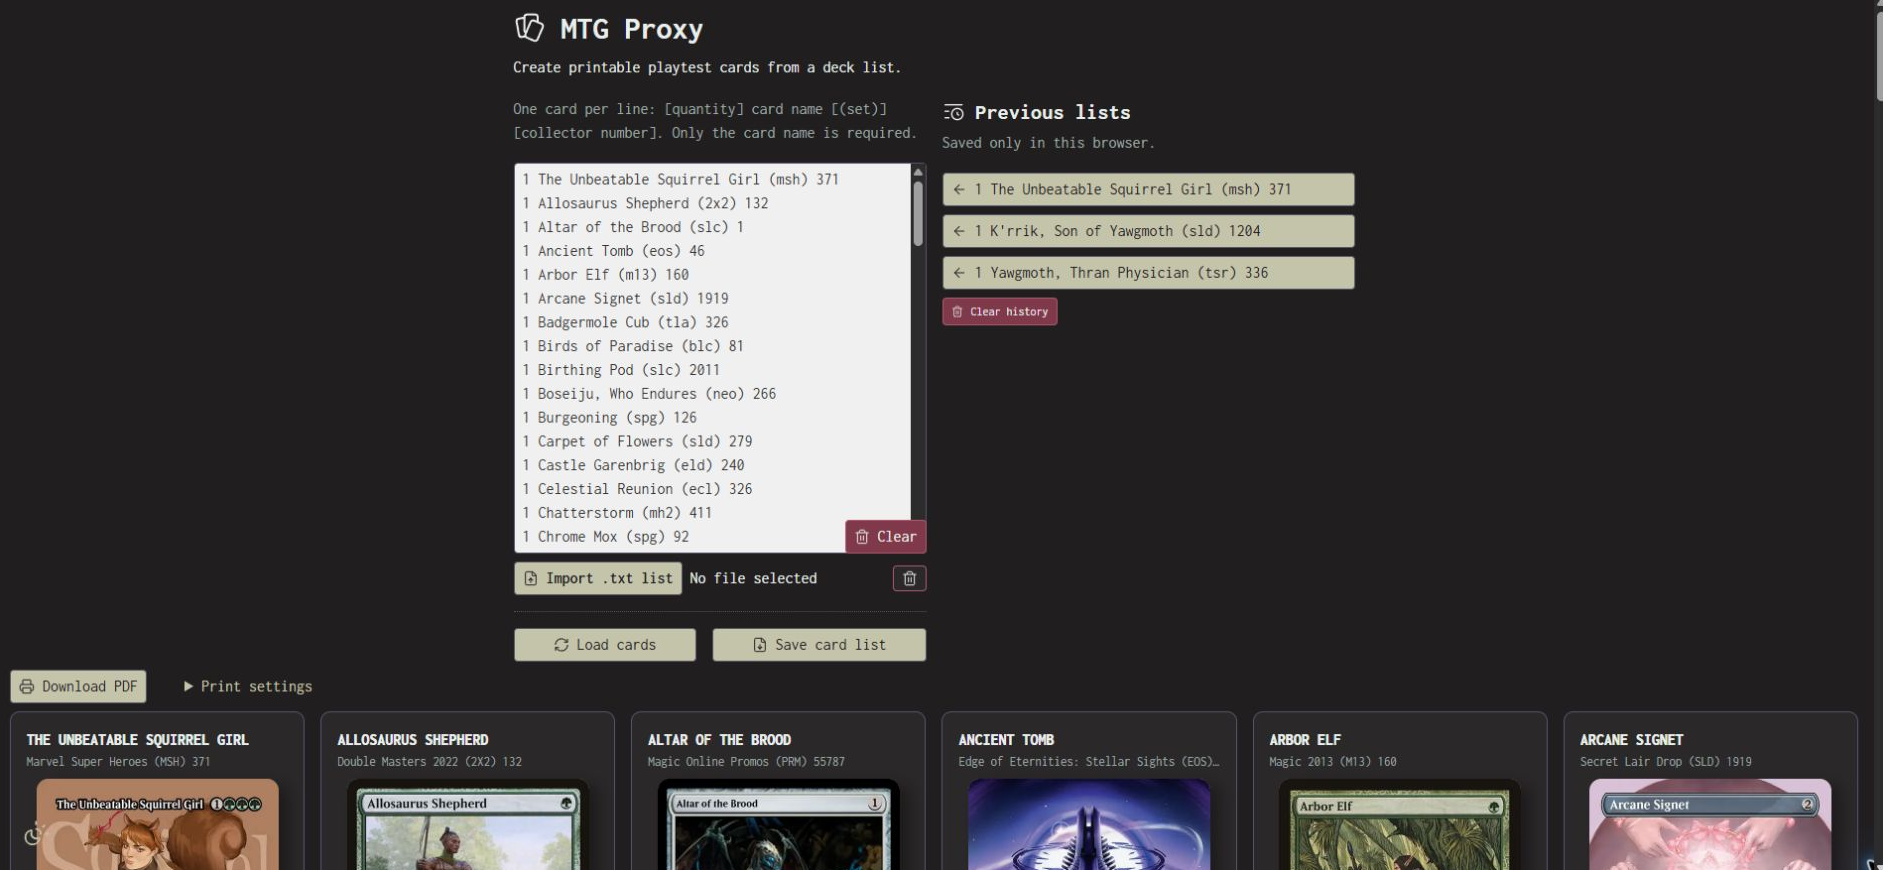
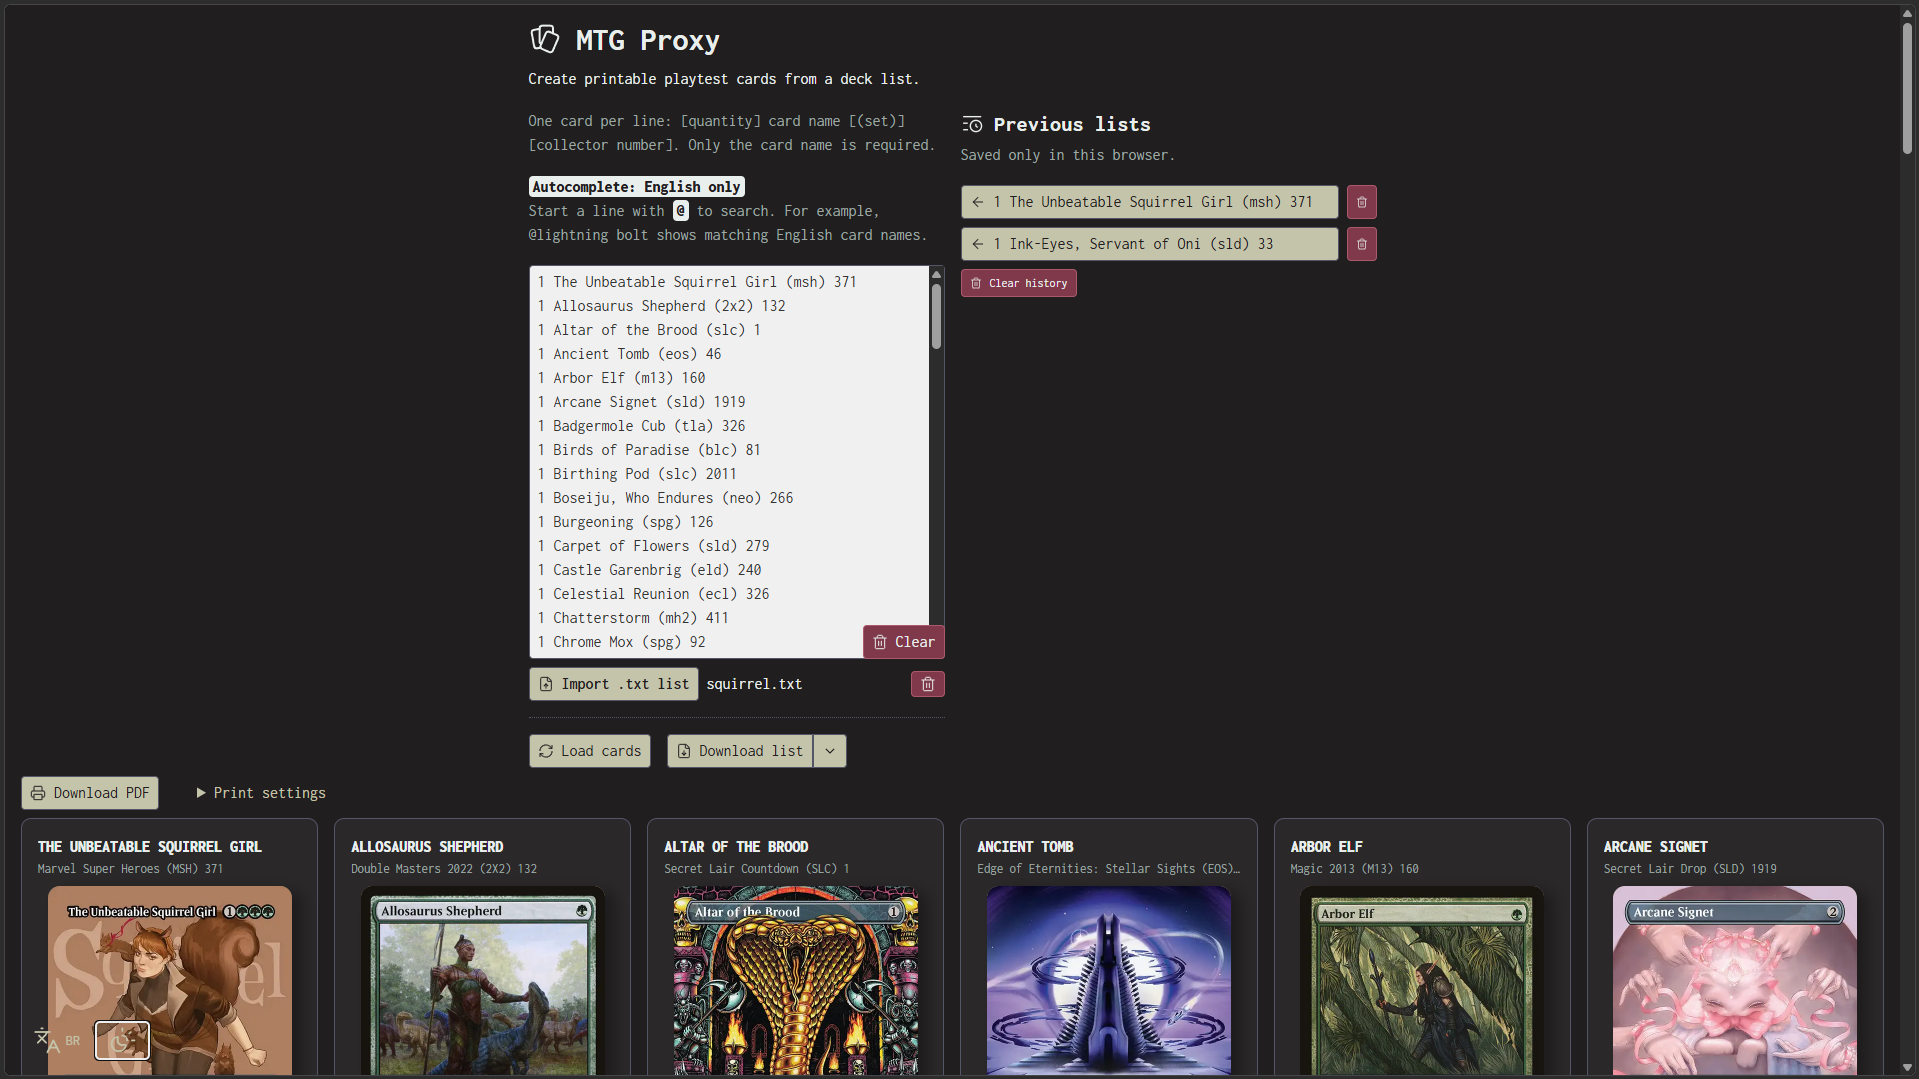
docs: add animated feature previews

Changed region(s): [[0.0, 0.0, 1.0, 1.0], [0.9857, 0.0, 1.0, 0.1552]]

diff --git a/README.md b/README.md
@@ -4,7 +4,7 @@ Create printable Magic: The Gathering playtest cards from a deck list, directly 
 
 [Open MTG Proxy](https://lksvn.com.br/mtg-proxy/)
 
-![MTG Proxy interface](docs/mtg-proxy.png)
+![MTG Proxy interface](docs/mtg-proxy.gif)
 
 ## Features
 
@@ -48,12 +48,13 @@ Card names may be supplied in any language. To search while typing, start a line
 @lightning
 4 @counter
 ```
+![Autocomplete card names](docs/autocomplete.gif)
 
 Autocomplete suggestions are currently available in English and support the mouse, arrow keys, Enter, and Escape.
 
 After loading a list, review the card previews, change any printings, choose the print settings, and download the PDF.
 
-![Search and change a card printing](docs/printing-selection.png)
+![Search and change a card printing](docs/printing-selection.gif)
 
 ## Development
 
